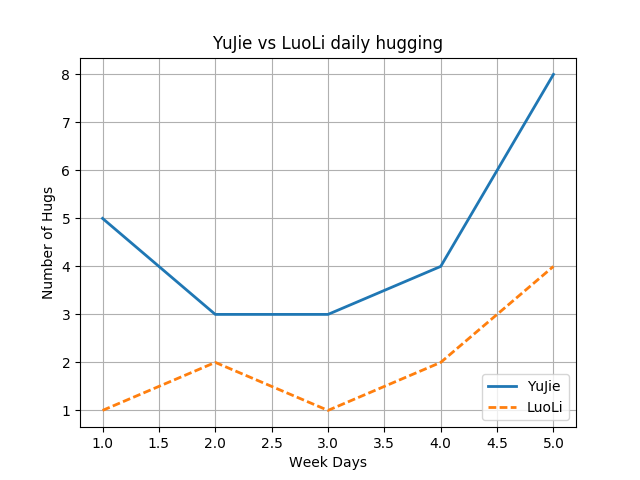
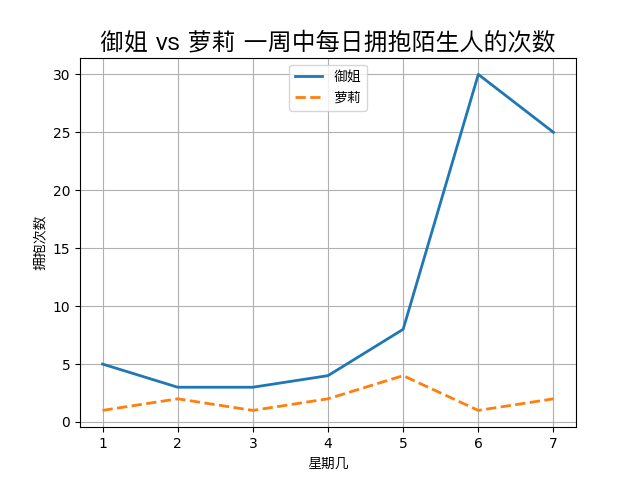
update line.py and some doc

diff --git a/python/src/matplotlib/line.py b/python/src/matplotlib/line.py
@@ -1,21 +1,31 @@
-#/usr/bin/python
-import matplotlib.pyplot as plt
+#/usr/bin/env python3
+# encoding = 'utf-8'
+"""
+有人问如何画图用中文。也有人问，是否代码可以用中文
+这个就当做一个示例吧。不过中文代码（变量）是有点别扭的
+这个代码需要 python3 才可以。python2 并不支持中文变量
+"""
 
-def lineChart():
-    weekday = (1, 2, 3, 4, 5)
-    yujie = (5, 3, 3, 4, 8)
-    luoli = (1, 2, 1, 2, 4)
+import matplotlib.font_manager as 字体管理
+import matplotlib.pyplot as 绘图
 
-    fig, ax = plt.subplots()
-    line1, = ax.plot(weekday, yujie, linewidth=2, label='YuJie') #add dash
-    line1, = ax.plot(weekday, luoli, '--',  linewidth=2, label='LuoLi') #add dash
+def 御姐萝莉曲线图():
+    # 这里使用的是苹果的一个字体的路径。其他系统路径请自行调整
+    中文字体 = 字体管理.FontProperties(fname='/System/Library/Fonts/PingFang.ttc')
+    周几 = ('1','2','3','4','5', '6', '7')
+    御姐 = (5, 3, 3, 4, 8, 30, 25)
+    萝莉 = (1, 2, 1, 2, 4, 1, 2)
 
-    ax.legend(loc='lower right') #location of line label
-    plt.title('YuJie vs LuoLi daily hugging')
-    plt.xlabel('Week Days')
-    plt.ylabel('Number of Hugs')
-    plt.grid(True)
-    plt.savefig("line.png")
+    _ ,御姐萝莉图 = 绘图.subplots()
+    御姐萝莉图.plot(周几, 御姐, linewidth=2, label='御姐')
+    御姐萝莉图.plot(周几, 萝莉, '--', linewidth=2, label='萝莉')
+
+    御姐萝莉图.legend(loc='upper center', prop=中文字体) #location of line label
+    绘图.title('御姐 vs 萝莉 一周中每日拥抱陌生人的次数', fontproperties=中文字体, size='xx-large')
+    绘图.xlabel('星期几', fontproperties=中文字体)
+    绘图.ylabel('拥抱次数', fontproperties=中文字体)
+    绘图.grid(True)
+    绘图.savefig("line.png")
 
 if __name__ == '__main__':
-    lineChart()
+    御姐萝莉曲线图()

diff --git a/python/docs/MATPLOTLIB.md b/python/docs/MATPLOTLIB.md
@@ -3,6 +3,7 @@
 Matplotlib [http://matplotlib.org](http://matplotlib.org) 算是python最出名的数据绘图程序的。其功能强大，文档齐全。这里就做一个最简单的介绍
 
 ## 安装
+
 当然是要安装的了，最简单的就是直接pip做安装
 
 ~~~
@@ -12,6 +13,7 @@ pip install matplotlib
 不简单的方法？也有, Matplotlib 有专门的安装文档，介绍了各种简单跟不简单的安装方式：[http://matplotlib.org/users/installing.html](http://matplotlib.org/users/installing.html)
 
 ## 个人设定
+
 matplotlib可以自己做很多配置，这个配置可以放在你的 ~/.matplotlib/matplotlibrc中。猫哥自己一般只丢一个backend的设定。设定同样也可以直接在代码中完成，不过如果说你常用的一些设定，避免每次代码都要去设定，直接丢matplotlibrc就好了。
 
 ~~~
@@ -22,7 +24,9 @@ echo "backend: AGG" >> ~/.matplotlib/matplotlibrc
 如果对个个设定有兴趣，matplotlib也有完整的文档介绍如何设定matplotlib的：[http://matplotlib.org/users/customizing.html](http://matplotlib.org/users/customizing.html)
 
 ## 画图吧
+
 ### bar chart
+
 最长见的视图了，这里来做个简单的，一个星期，周一到周五，抱到了几个御姐几个萝莉。简单明了，yujie记录了每天抱到的御姐的数量，萝莉记录的是萝莉的数量，weekday是天数。所有的东西放在一起，图片就出来了。其中label是各个的标签，不难通过视图跟代码对照，找出哪个是哪个。
 最后的plt.savefig()告诉matplotlib我们要把图片保存到bar.png这个文件
 
@@ -67,38 +71,53 @@ if __name__ == '__main__':
 ~~~
 
 ### line chart
-同样数据，换个line chart试试看
+
+同样数据，换个line chart试试看。多加上2天，毕竟周末了，御姐家里管的松点，萝莉家里似乎管的比较紧。
+
+这个是更改了一下代码风格。因为似乎不少人问我怎么画中文的东西（什么安装字体，什么覆盖内置字体的）没那么复杂，不就是写个脚本嘛。还要去改系统了。matplotlib 自身就提供了字体管理（font_manager）
+
+另外有不少人似乎好奇 python 是否可以用中文（变量，函数，类。。等等）可以的。python3 从 2008 年开始就支持了。这里就顺便演示一下。（当然了，个人觉得写起来比较别扭，还要切换输入法，不过也许没准说不定有人喜欢呢）
 
 ![line.png](line.png)
 
 [line.py](../src/matplotlib/line.py)
 
 ~~~python
-#/usr/bin/python
-import matplotlib.pyplot as plt
+#/usr/bin/env python3
+# encoding = 'utf-8'
+"""
+有人问如何画图用中文。也有人问，是否代码可以用中文
+这个就当做一个示例吧。不过中文代码（变量）是有点别扭的
+这个代码需要 python3 才可以。python2 并不支持中文变量
+"""
 
-def lineChart():
-    weekday = (1, 2, 3, 4, 5)
-    yujie = (5, 3, 3, 4, 8)
-    luoli = (1, 2, 1, 2, 4)
+import matplotlib.font_manager as 字体管理
+import matplotlib.pyplot as 绘图
 
-    fig, ax = plt.subplots()
-    line1, = ax.plot(weekday, yujie, linewidth=2, label='YuJie') #add dash
-    line1, = ax.plot(weekday, luoli, '--',  linewidth=2, label='LuoLi') #add dash
+def 御姐萝莉曲线图():
+    # 这里使用的是苹果的一个字体的路径。其他系统路径请自行调整
+    中文字体 = 字体管理.FontProperties(fname='/System/Library/Fonts/PingFang.ttc')
+    周几 = ('1','2','3','4','5', '6', '7')
+    御姐 = (5, 3, 3, 4, 8, 30, 25)
+    萝莉 = (1, 2, 1, 2, 4, 1, 2)
 
-    ax.legend(loc='lower right') #location of line label
-    plt.title('YuJie vs LuoLi daily hugging')
-    plt.xlabel('Week Days')
-    plt.ylabel('Number of Hugs')
-    plt.grid(True)
-    plt.savefig("line.png")
+    _ ,御姐萝莉图 = 绘图.subplots()
+    御姐萝莉图.plot(周几, 御姐, linewidth=2, label='御姐')
+    御姐萝莉图.plot(周几, 萝莉, '--', linewidth=2, label='萝莉')
+
+    御姐萝莉图.legend(loc='upper center', prop=中文字体) #location of line label
+    绘图.title('御姐 vs 萝莉 一周中每日拥抱陌生人的次数', fontproperties=中文字体, size='xx-large')
+    绘图.xlabel('星期几', fontproperties=中文字体)
+    绘图.ylabel('拥抱次数', fontproperties=中文字体)
+    绘图.grid(True)
+    绘图.savefig("line.png")
 
 if __name__ == '__main__':
-    lineChart()
+    御姐萝莉曲线图()
 ~~~
 
 
-其实呢，画图是可以很简单的，见到什么程度呢？两行代码，是的，就两行就够了。好吧，加上import是3行，如果在加上python的头文件那么就是4行。
+其实呢，画图是可以很简单的，简单到什么程度呢？两行代码，是的，就两行就够了。好吧，加上import是3行，如果在加上python的头文件那么就是4行。
 
 ![line_basic.png](line_basic.png)
 
@@ -112,6 +131,7 @@ plt.savefig("line_basic.png")
 ~~~
 
 ### pie chart
+
 画饼，这个是我最喜欢的，画饼，这个是可以充饥的呀。因为一饼容不得二虎，所以大饼图就先不带萝莉玩了。通过大饼图就能看书，周五我是比较受欢迎的，整个星期34.8%的拥抱都是在周五得到的。
 
 简单的说两个，第一个是 explode 这个选择，这个是决定哪个部分的图“突出”来，例如我们的 [0, 0, 0, 0, 0.1] 就是说第五个数据（御姐中的那个8）图片pop （突出）。一般来说的做法，是直接代码分析一下数据，然后自动生成你要pop的地方（例如最大数据，又或者最小数据，又或者平均数据，又或者一样的数据）这个 0.1 的值，决定pop出去多少。自己玩玩就明白了。另外一个就是ax1.axis('equal') 这个确定你的饼没有被摔过。同理，自己试试看去掉这行的结果，就可以看出来
@@ -138,6 +158,7 @@ if __name__ == '__main__':
 
 
 ## 总结
+
 是的，到这里就没了，猫哥不是很厚道，就只给说了个最基础的东西。完整的介绍，包括很多例子还有视图，都可以在matplotlib的官网看到。之所以我只有介绍这么一点点，是因为，我不会！我画图只是很业余很业余的，偶尔需要用到了，才话一下，就只有画过line，bar跟pie的chart，所以就只写这些了。
 
 

diff --git a/docs/aboutMe.md b/docs/aboutMe.md
@@ -7,50 +7,57 @@
 
 ### 运维做什么
 
-运行维护呗。就是机器正常运行，就可以了。小点的公司，例如网吧，运维就是那个网管，有事了修个机器拉个网线，没事了，顺便卖个泡面火腿肠什么的
+运行维护呗。就是机器正常运行，就可以了。小点的公司，例如网吧，运维就是那个网管。有事了修个机器拉个网线，没事了，顺便卖个泡面火腿肠什么的。
 
 ### 架构做什么
+
 架构其实是介于技术跟商业之间的一个东西。技术牛，不一定能做架构，做架构的，也不一定技术就要好。常常说的一个简单的例子
 
-A君做了一个很牛的架构，初始成本100万，每年维护费用30万。A君公司年利润50万。那么再牛的架构，也没人看的
+A君做了一个很牛的架构，初始成本100万，每年维护费用30万。A君公司年利润50万。那么再牛的架构，也没人看的。
 
-架构考虑的东西很多，包裹成本，包括维护，包括人力成本，兼容，扩展，合理性，可变性，难度，效益，可执行程度等等很多东西。所以说：**架构师 == 技术牛人** 这个是误区
+架构考虑的东西很多，包裹成本，包括维护，包括人力成本，兼容，扩展，合理性，可变性，难度，效益，可执行程度等等很多东西。所以说：**架构师 == 技术牛人** 这个是误区。
 
 
 ### 猫哥会什么
-一些linux的基础跟概念，简单的脚本开发
+
+一些 Linux 的基础跟概念，简单的脚本开发。严格的说，最近几年都没有怎么接触 Linux 了，似乎已经忘记的差不多了。
 
 ### 猫哥不会什么
-* 我不会网络
+
+这个我拿手，问我会什么不好回答，问我不会什么，这个容易。
+
+* 不会网络
 	* 什么router，switch，cisco，juniper 都不会
-* 我不会安全
+* 不会安全
 	* 攻击，防范，账号，授权，DDOS，阻断，拦截 都不会
-* 我不会机房
+* 不会机房
 	* 装机，布线，换硬件 都不会
-* 我不会存储
+* 不会存储
 	* SAN，iSCSI 各种设备 都不会
-* 我不会大数据
+* 不会大数据
 	* HADOOP， MapReduce，ELK 都不会
-* 我不会开发
-	* 我是运维，不是开发 所以我很业余
-* 我不会数据库
-	* Oracle, MySQL, PostgreSQL, Radis, Cassandra, mongodb, InflexDB 都不会
-* 我不会监控
-	* zenoss, nagios, zabbix, datadog appdynamics splunk 都不会
+* 不会开发
+	* 我是运维，不是开发，也不是电脑专业的。所以我写的东西是很业余的。去哄哄外行还行，在真的开发眼里，我跟冬瓜没什么太大的区别。
+* 不会数据库
+	* Oracle, MySQL, PostgreSQL, Radis, Cassandra, mongodb, InflexDB 都不会。那个要么是 DBA 的事情，要么是数据库开发的事情，跟运维无关。
+* 不会监控
+	* zenoss, nagios, zabbix, datadog, wavefront, app dynamics, splunk 这些都不会。只能说用过。这个是监控组的事情，运维不管的。
 * 我不会linux服务设定
-	* apache, mysql, php, dns, ftp, nfs 之类的，统统都不会，全部都不会，样样都不会
+	* apache, mysql, php, dns, ftp, nfs 之类的，统统都不会，全部都不会，样样都不会。虽然有点说不过去，运维你不会设定服务器？不过呢，这个是真的。确实不会，也没有接触过。因为没有设定这些的需求。真的要设定，要跟小白一样，去看文档才行。
 
 ### 猫哥工作每天都干什么
 * 开会
-	* 这个是最多的。主要的时间都是在开会
+	* 这个是最多的。主要的时间都是在开会。反正做什么薪水都一样，公司说“看你长得适合多开会呀”，那我就去开呗
 * 保姆
-	* 猫哥是保姆，要负责照顾小孩。就是传说中的带人
+	* 猫哥是保姆，这个是真的！要负责照顾小孩，也有一种传说，叫做“带新人”。不过我们部门最新的人，也都进公司好几年了吧。保姆嘛，就是东西做对了，要及时给与鼓励：“你好棒呀，真厉害！加油！”。东西搞乱了，家长不是找小孩的，而是说：“你没有看好小孩子”。简单的说，就是做好了，功劳都是你们的，做砸了，我是来背黑锅的。
 * 写文档
-	* 写一些文档，定义一些做事情的程序
+	* 写一些文档，定义规则。画图，定义流程，定义结构。
 * 聊天
-	* 没错，是聊天。当然了，官方说法叫做团队交流。就是跟别人聊天，跟别的团队的聊天
+	* 没错，是聊天。当然了，官方说法叫做团队交流。就是跟别人聊天，跟别的团队的聊天。正式的聊天，那个叫做开会，不正式的，就是团队交流了。一般团队之间，大体就三种情况。一个是互相显摆一下自己做了什么。一个是互相贬低一下，对方什么什么做的不好。在一个就是，大家无话可说。
 * 架构
-	* 看看别人有什么好东西，是否买得起。又或者是否可以自己做一个出来。外面的世界大家都在用什么，是否自己也可以用。
+	* 看看别人有什么好东西，是否买得起。又或者是否可以自己做一个类似的出来。外面的世界大家都在用什么，是否自己也可以用。这个大概就是架构的精髓吧。或者是自己功力不够，到目前为止，只有悟出这些来。
+* R & D
+   * 传说中的 <研究与开发> 其实很多人都在做，自己不知道，或者公司没有给你这个头衔罢了。R&D 就是上网看看信息（例如百度找个什么博客）然后自己试试看能不能照着博客里写的东西，自己也学一下怎么做。R 是 research 也就是你看搜百度看博客的过程，D 是 development 就是你回来自己找个机器跟着试试看的过程。
 
 		
 

diff --git a/python/README.md b/python/README.md
@@ -1,7 +1,8 @@
 # Python 相关的东西
+
 所有代码，如果没有特别声明。那么都是在OSX的环境中，python 2.7.13下面完成
 
-所有python3代码，如果没有特殊声明，那么都是在OSX的环境中 python 3.4.5下面完成
+所有python3代码，如果没有特殊声明，那么都是在OSX的环境中 python 3.6.4下面完成
 
 * [如何用 python 的 import](docs/IMPORT.md) 
 * [如何用 select.epoll](docs/EPOLL.md)
